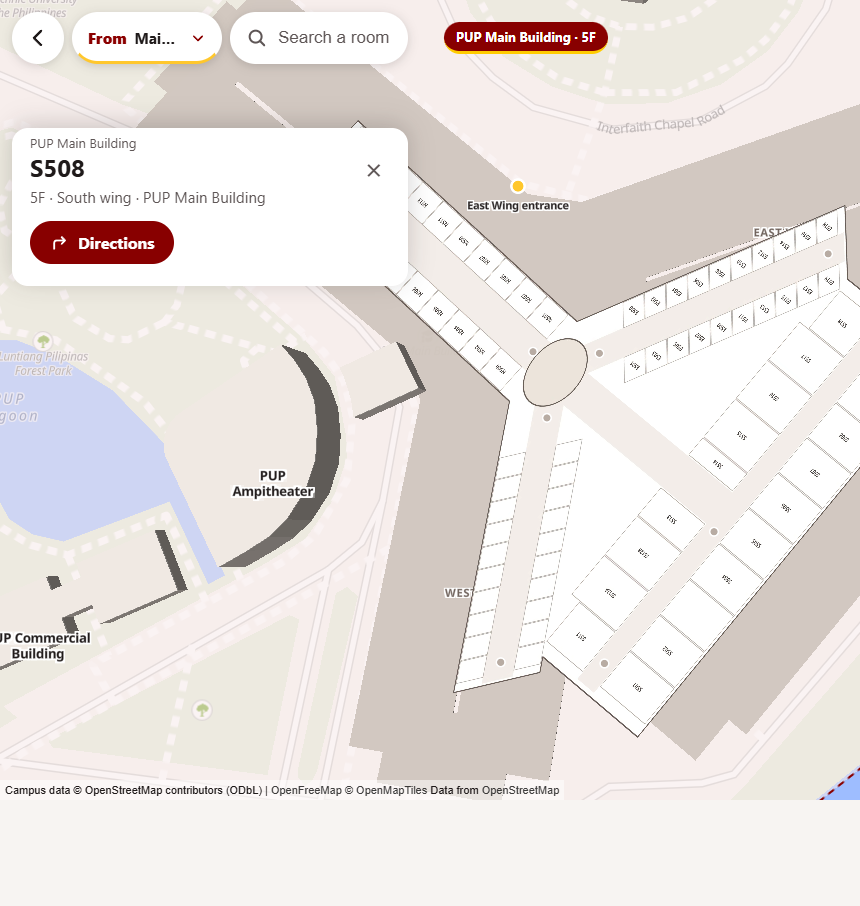
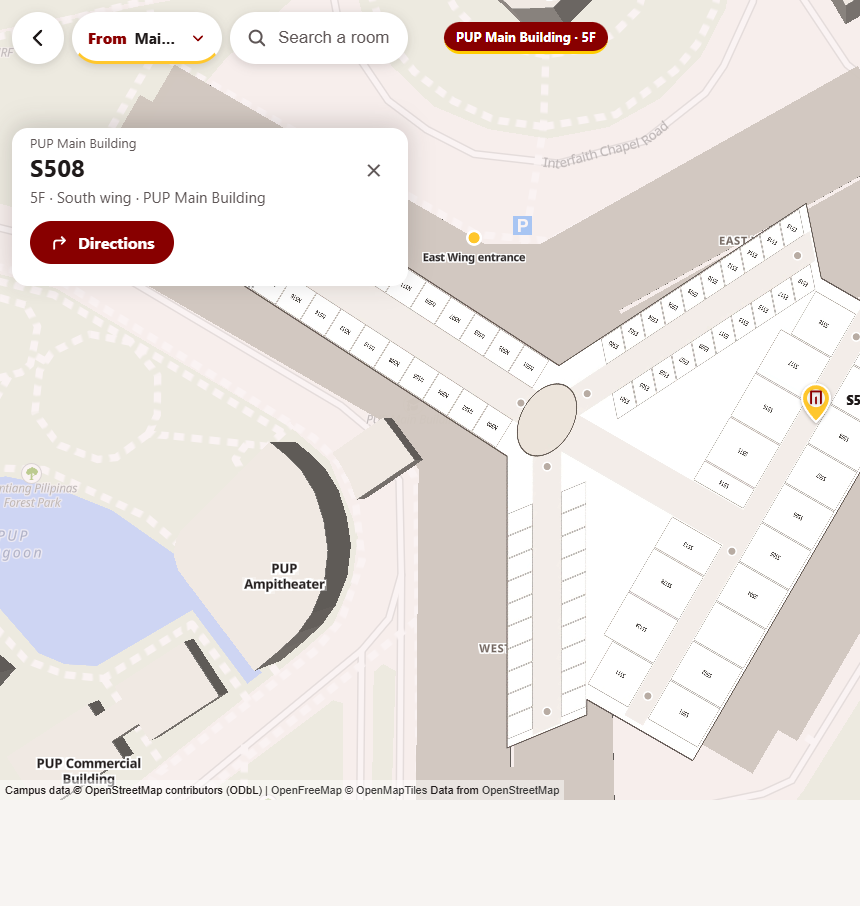
Keep pin overlay bounds and dest labels aligned with the live map DOM.

diff --git a/public/map-pins.js b/public/map-pins.js
@@ -158,11 +158,12 @@ function viewBounds() {
   const desk = innerWidth >= 900;
   const sheet = document.getElementById("sheet");
   const open = !!(sheet && !sheet.hidden);
-  const sheetTop = open ? sheet.getBoundingClientRect().top : innerHeight;
   const top = desk ? 80 : 112;
   const left = desk && open ? 424 : 8;
   const right = innerWidth - (desk ? 68 : 60);
-  const bottom = Math.min(innerHeight - 8, sheetTop - 8);
+  const bottom = desk || !open
+    ? innerHeight - 8
+    : Math.min(innerHeight - 8, sheet.getBoundingClientRect().top - 8);
   return { left, top, right: Math.max(left + 44, right), bottom: Math.max(top + 44, bottom) };
 }
 
@@ -327,20 +328,21 @@ function readTranslate(el) {
 }
 
 function markerPoint(el) {
-  const dot = el.querySelector("i") || el;
+  const dot = el.querySelector("i") || el.querySelector(".drop") || el;
   const r = dot.getBoundingClientRect();
   if (r.width < 1 && r.height < 1) return null;
-  return { x: r.left + r.width / 2, y: r.top + r.height / 2, text: (el.querySelector("span")?.textContent || "").trim() };
+  const labelSpan = [...el.querySelectorAll("span")].find((s) => s.textContent && !s.classList.contains("ring") && !s.classList.contains("drop"));
+  return { x: r.left + r.width / 2, y: r.top + r.height / 2, text: (labelSpan?.textContent || "").trim() };
 }
 
 function fromDom() {
   const zoom = Number(document.body.dataset.izoom);
   const pins = [];
+  const title = document.getElementById("title")?.textContent?.trim() || "";
   const pin = document.getElementById("pin");
   if (pin && !pin.hidden) {
     const at = readTranslate(pin);
     if (at) {
-      const title = document.getElementById("title")?.textContent?.trim() || "";
       pins.push({ id: "selected", x: at.x, y: at.y, kind: "room", label: title, selected: true, dest: true });
     }
     pin.classList.add("pin-replaced");
@@ -356,20 +358,38 @@ function fromDom() {
       pins.push({ id: kind, x: at.x, y: at.y, kind, label: at.text });
       el.classList.add("pin-replaced");
     });
+    document.querySelectorAll(".dpin").forEach((el) => {
+      if (el.id === "pin" || el.hidden) return;
+      const at = markerPoint(el);
+      if (!at || !inView(at.x, at.y)) return;
+      pins.push({
+        id: "dest",
+        x: at.x,
+        y: at.y,
+        kind: "room",
+        label: title || at.text || "Destination",
+        selected: true,
+        dest: true,
+      });
+      el.classList.add("pin-replaced");
+    });
   }
   const sheet = document.getElementById("sheet");
-  const title = document.getElementById("title")?.textContent?.trim() || "";
   const outdoor = !indoor;
   const open = !!(sheet && !sheet.hidden);
-  const buildingSheet = outdoor && open && title && document.getElementById("inside") && !document.getElementById("inside").hidden;
+  const where = document.getElementById("where")?.textContent || "";
+  const buildingName = where.split("·")[0].trim();
+  const back = document.getElementById("back");
+  const overlayOpen = outdoor && !!(back && !back.hidden);
+  const insideBtn = document.getElementById("inside");
+  const buildingSheet = outdoor && open && title && insideBtn && !insideBtn.hidden;
   let building = "";
   let chip = null;
   if (buildingSheet) {
     building = title;
     chip = { x: innerWidth / 2, y: Math.min(innerHeight * 0.42, innerHeight * 0.55) };
-  } else if (!outdoor) {
-    const where = document.getElementById("where")?.textContent || "";
-    building = where.split("·")[0].trim();
+  } else if (!outdoor || (overlayOpen && buildingName)) {
+    building = buildingName;
     const b = viewBounds();
     chip = { x: b.left + 90, y: b.top + 28 };
   }
@@ -395,11 +415,13 @@ function watch() {
   const sheet = document.getElementById("sheet");
   const title = document.getElementById("title");
   const where = document.getElementById("where");
+  const back = document.getElementById("back");
   if (pin) new MutationObserver(schedule).observe(pin, opts);
-  if (outdoor) new MutationObserver(schedule).observe(outdoor, { attributes: true, childList: true, subtree: true, attributeFilter: ["style", "class"] });
+  if (outdoor) new MutationObserver(schedule).observe(outdoor, { attributes: true, childList: true, subtree: true, attributeFilter: ["style", "class", "hidden"] });
   if (sheet) new MutationObserver(schedule).observe(sheet, opts);
   if (title) new MutationObserver(schedule).observe(title, { childList: true, characterData: true, subtree: true });
   if (where) new MutationObserver(schedule).observe(where, { childList: true, characterData: true, subtree: true });
+  if (back) new MutationObserver(schedule).observe(back, opts);
   new MutationObserver(schedule).observe(document.body, { attributes: true, attributeFilter: ["class", "data-izoom"] });
   window.addEventListener("resize", schedule);
   schedule();
